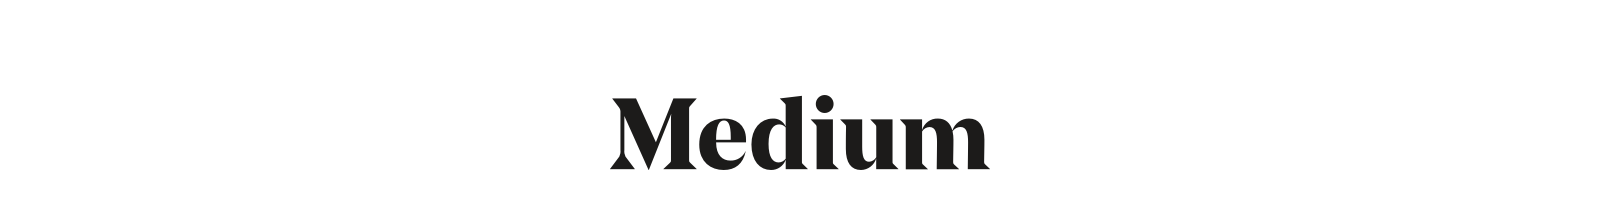
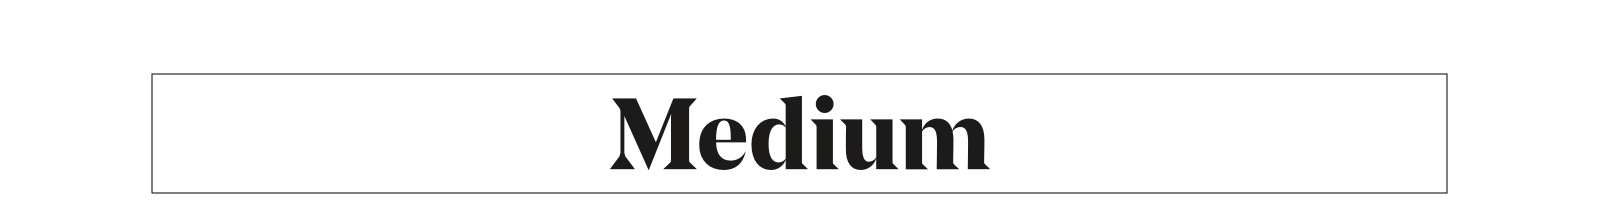
Replaced the image previews in categories page.

Changed region(s): [[0.0938, 0.96, 0.9062, 0.99], [0.0938, 0.36, 0.9062, 0.39]]

diff --git a/_includes/entry-no-images.html b/_includes/entry-no-images.html
@@ -14,14 +14,14 @@
       {% endif %}
     </h3>
     <!-- Uncomment the following section to bring back preview images for posts. -->
-    {% if entry.image.thumbnail %}
+    <!-- {% if entry.image.thumbnail %}
       {% assign entry_image = entry.image.thumbnail %}
       {% unless entry_image contains '://' %}
         {% assign entry_image = entry_image | relative_url %}
       {% endunless %}
       {% assign entry_image = entry_image | escape %}
       <img class="entry-image u-photo" src="{{ entry_image }}" alt="">
-    {% endif %}
+    {% endif %} -->
   </header>
   {% unless page.show_excerpts == false %}
     <div class="entry-excerpt p-summary">

diff --git a/_includes/posts-paginated.html b/_includes/posts-paginated.html
@@ -1,5 +1,5 @@
 {%- for entry in paginator.posts -%}
-  {% include entry.html %}
+  {% include entry-no-images.html %}
 {%- endfor -%}
 
 <!-- Pagination links -->
